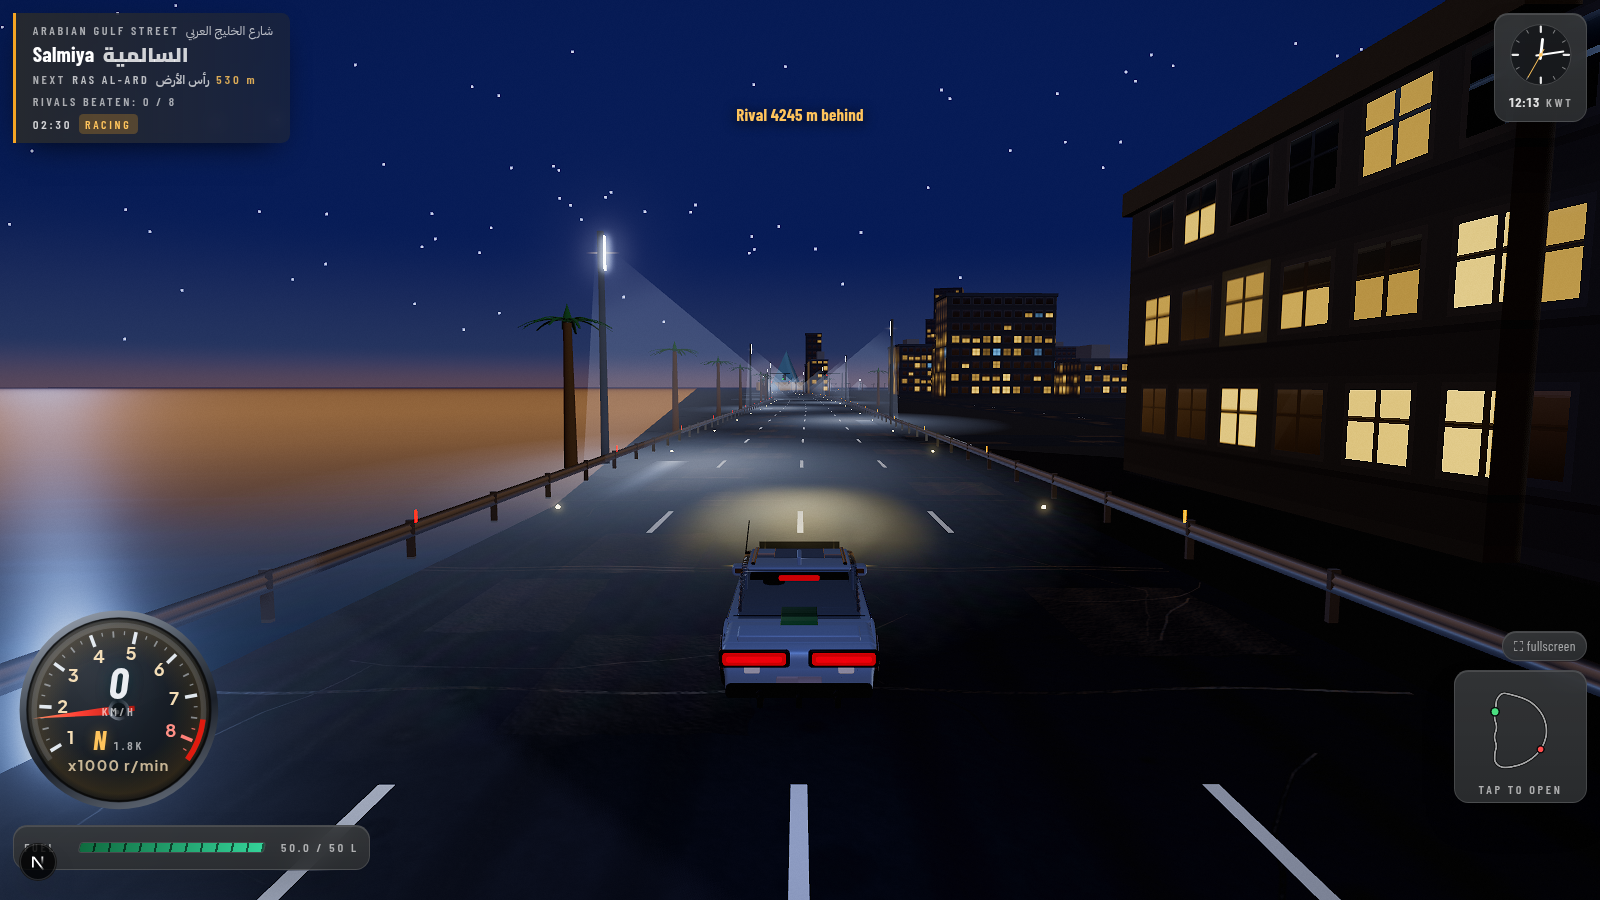
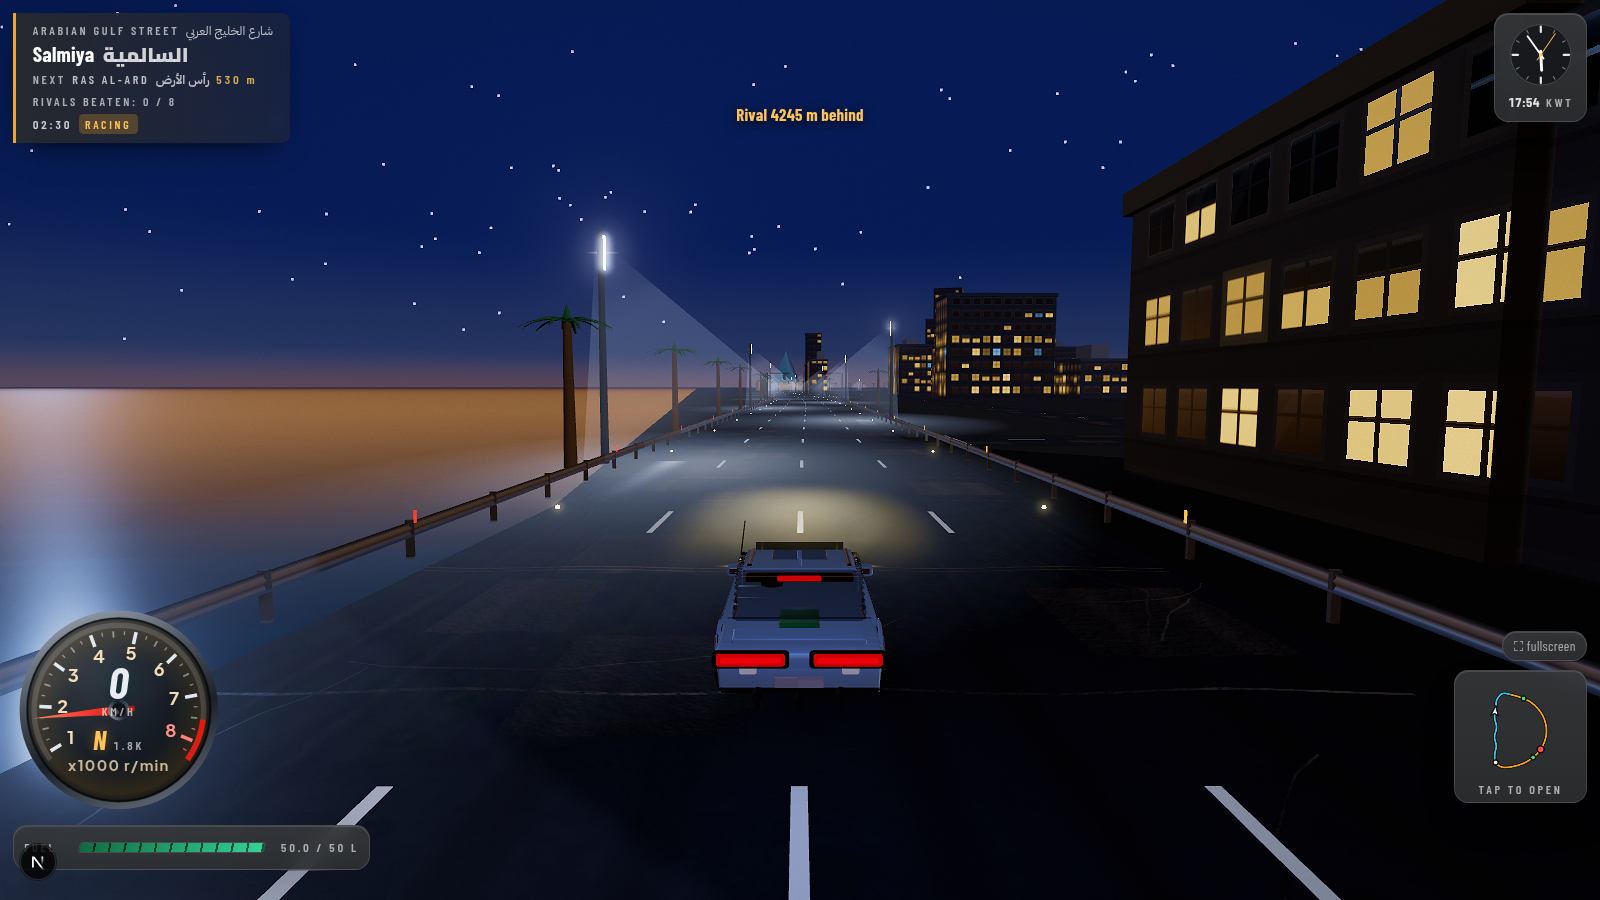
Make the corner map the same map as the full one
roadmap.ts was written so both maps would come from one model — its
header says the reason out loud: "the same model has to feed both the
corner minimap and the full-screen map or the two will disagree about
where things are, which is worse than having only one of them." The
projection is shared and has been since it was written. What was not
shared is everything drawn on top of it.

The full map draws the lap as its two named roads in two colours, marks
the start line and both pumps, and labels the districts. The corner map
— the one a driver actually looks at, forty times more often — drew one
closed stroke in one colour and two dots. It said the road was one thing
and gave no way to tell the corniche from the ring.

And it threw away data the engine had already paid for. `facing` is
computed in map space every frame and shipped to the HUD, and nothing
drew it: a dot on a closed loop cannot tell you which way round you are
going, which is the first question anybody asks of a map of a circuit.
The projection is a rigid scale of the world, so the road's tangent IS
the map's tangent and the arrow needs no correction — the one thing an
aspect-correct map buys that a stretched one cannot.

So the corner map now draws the same two legs in the same two colours,
the start line, every pump, and you as an arrow pointing where the car
points. Same model, same palette, same marks.

tests/roadmap.mjs gains the check that makes the leg ranges load-bearing
[…]

diff --git a/src/app/race/RaceClient.tsx b/src/app/race/RaceClient.tsx
@@ -418,11 +418,20 @@ function Flag({ code }: { code?: string }) {
   return <>{code}</>;
 }
 
+/** The two roads' colours. The same pair RoadMapView uses — a corner map
+ *  and a full map that disagree about which road is which are two maps. */
+const MAP_LEG_COLOR = ["#38c9ee", "#f5a524"];
+
 export default function RaceClient() {
   const canvasRef = useRef<HTMLCanvasElement>(null);
   const mapRef = useRef<HTMLCanvasElement>(null);
   const engineRef = useRef<GameEngine | null>(null);
   const mapPathRef = useRef<Array<[number, number]>>([]);
+  /** The same legs and marks the full map draws. The corner map had the
+   *  outline and nothing else: two roads in one colour, no start line, no
+   *  pump, and a dot for a car that is pointing somewhere. */
+  const mapLegsRef = useRef<Array<{ from: number; to: number }>>([]);
+  const mapMarksRef = useRef<Array<{ x: number; y: number; kind: string }>>([]);
   /** The whole road, built once by the engine. Null until it starts. */
   const [roadMap, setRoadMap] = useState<RoadMap | null>(null);
   const [mapOpen, setMapOpen] = useState(false);
@@ -730,6 +739,16 @@ export default function RaceClient() {
       });
       ctx.closePath();
     };
+    // The same two roads, in the same two colours the full map uses.
+    //
+    // This drew one closed stroke in one colour, which is the shape of
+    // the lap and nothing else about it. The corniche and the ring are
+    // different roads with different names on the signs, and the corner
+    // map is the one a driver actually looks at — telling them apart at
+    // a glance is the single most useful thing a map of a two-road lap
+    // can do, and the full map has been doing it while the minimap next
+    // to it said the road was one thing.
+    //
     // A road, not a wire: a dark casing with a lit core on top of it is
     // how every map in the world draws one, and it is what stops the
     // line disappearing wherever the panel behind it happens to be pale.
@@ -737,14 +756,29 @@ export default function RaceClient() {
     // hardcoded pixel widths would come out hairline-thin.
     ctx.lineJoin = "round";
     ctx.lineCap = "round";
-    path();
-    ctx.strokeStyle = "rgba(0,0,0,0.55)";
-    ctx.lineWidth = w / 34;
-    ctx.stroke();
-    path();
-    ctx.strokeStyle = "rgba(255,255,255,0.62)";
-    ctx.lineWidth = w / 75;
-    ctx.stroke();
+    const legs = mapLegsRef.current.length
+      ? mapLegsRef.current
+      : [{ from: 0, to: mapPathRef.current.length - 1 }];
+    const legStroke = (from: number, to: number) => {
+      ctx.beginPath();
+      for (let k = from; k <= to && k < mapPathRef.current.length; k++) {
+        const [x, y] = mapPathRef.current[k];
+        if (k === from) ctx.moveTo(X(x), Y(y));
+        else ctx.lineTo(X(x), Y(y));
+      }
+    };
+    for (let i = 0; i < legs.length; i++) {
+      legStroke(legs[i].from, legs[i].to);
+      ctx.strokeStyle = "rgba(0,0,0,0.55)";
+      ctx.lineWidth = w / 34;
+      ctx.stroke();
+    }
+    for (let i = 0; i < legs.length; i++) {
+      legStroke(legs[i].from, legs[i].to);
+      ctx.strokeStyle = MAP_LEG_COLOR[i % MAP_LEG_COLOR.length];
+      ctx.lineWidth = w / 75;
+      ctx.stroke();
+    }
 
     // Markers get a casing too, for the same reason: a bare dot on a
     // pale stretch of route is a dot you have to hunt for.
@@ -757,8 +791,40 @@ export default function RaceClient() {
       ctx.strokeStyle = "rgba(6,7,9,0.9)";
       ctx.stroke();
     };
+    // The start line and every pump, which the tank makes the one piece
+    // of routing this game needs.
+    for (const mk of mapMarksRef.current) {
+      mark(mk.x, mk.y, mk.kind === "station" ? "#4ade80" : "#f5f5f5", 0.02);
+    }
     if (d.map.rx >= 0) mark(d.map.rx, d.map.ry, "#ff4d4d", 0.028);
-    mark(d.map.px, d.map.py, "#4ade80", 0.034);
+    // You: an arrow, pointing the way the car is pointing.
+    //
+    // The engine has computed `facing` in map space every frame since
+    // the map was written and nothing drew it. A dot on a loop cannot
+    // tell you which way round you are going, which is the first
+    // question anybody asks of a map of a circuit — and the projection
+    // is a rigid scale, so the road's tangent IS the map's tangent and
+    // the arrow needs no correction.
+    {
+      const cx = X(d.map.px);
+      const cy = Y(d.map.py);
+      const r = w * 0.05;
+      ctx.save();
+      ctx.translate(cx, cy);
+      ctx.rotate(d.map.facing);
+      ctx.beginPath();
+      ctx.moveTo(r, 0);
+      ctx.lineTo(-r * 0.62, r * 0.6);
+      ctx.lineTo(-r * 0.3, 0);
+      ctx.lineTo(-r * 0.62, -r * 0.6);
+      ctx.closePath();
+      ctx.fillStyle = "#eaf6ff";
+      ctx.fill();
+      ctx.lineWidth = w / 90;
+      ctx.strokeStyle = "rgba(6,7,9,0.9)";
+      ctx.stroke();
+      ctx.restore();
+    }
   }, []);
 
   const onHud = useCallback(
@@ -1208,6 +1274,13 @@ export default function RaceClient() {
         },
       }, Number.isFinite(startS) ? { startS } : undefined);
       mapPathRef.current = engine.getMapPath();
+      {
+        const rm = engine.getRoadMap();
+        mapLegsRef.current = rm.legs.map((l) => ({ from: l.from, to: l.to }));
+        mapMarksRef.current = rm.markers
+          .filter((m) => m.kind === "start" || m.kind === "station")
+          .map((m) => ({ x: m.x, y: m.y, kind: m.kind }));
+      }
       setRoadMap(engine.getRoadMap());
       engine.resize();
       engine.start();
